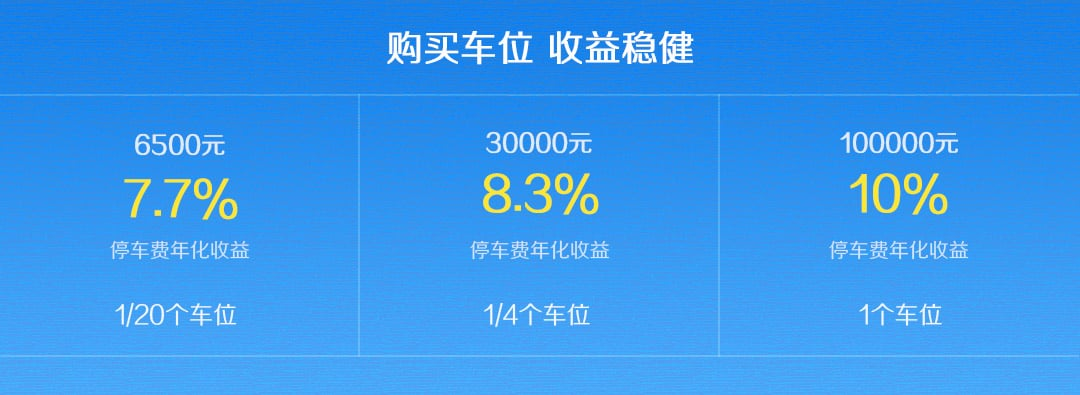
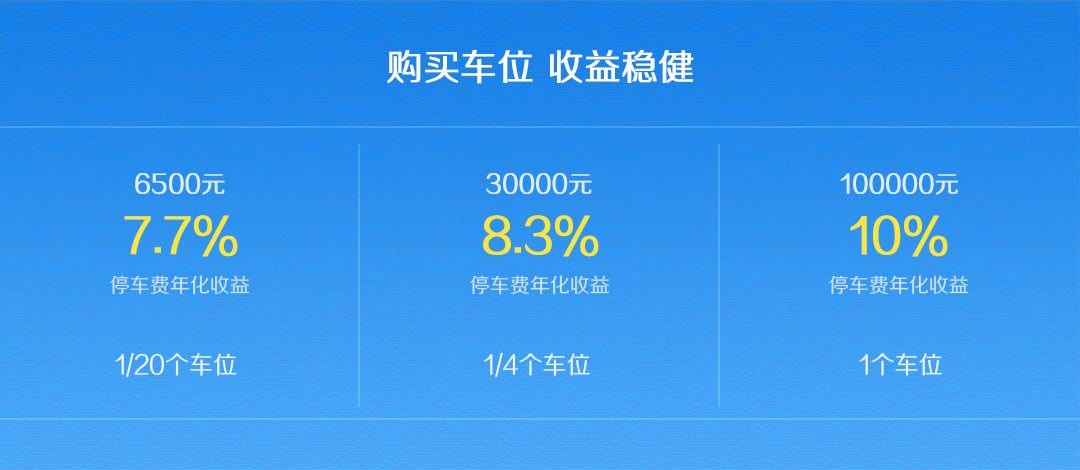
update images

diff --git a/src/components/product/ways.jsx b/src/components/product/ways.jsx
@@ -61,12 +61,15 @@ const PaymentDesc = styled.span`
 `;
 
 const Time = styled.p`
-  margin: 0.05rem 0 0.2rem;
+  margin: 0.05rem 0 0;
   font-size: 0.12rem;
   line-height: 0.18rem;
   color: #4a4a4a;
   span {
     color: #9b9b9b;
+  }
+  &:last-of-type {
+    margin-bottom: 0.2rem;
   }
 `;
 
@@ -84,6 +87,9 @@ const Intro = () => (
           {product.desc}
           <Time>
             <span>开始收益时间</span> {format(addDays(new Date(), 7), 'YYYY年MM月DD')}
+          </Time>
+          <Time>
+            <span>停车费年化收益</span> {product.ratio}
           </Time>
           <Link to={`/orders/new?paymentId=${product.id}`}>
             <Button>确认购买</Button>

diff --git a/src/components/product/slides.jsx b/src/components/product/slides.jsx
@@ -8,7 +8,7 @@ import imgSlide2 from './slide-profit.jpg';
 const Container = styled.div`
   img {
     width: 100%;
-    // height: 2.2rem;
+    height: 1.63rem;
   }
 `;
 
@@ -16,8 +16,8 @@ export default function Slides() {
   return (
     <Container>
       <Slider>
-        <img src={imgSlide1} alt="carport" />
         <img src={imgSlide2} alt="carport" />
+        <img src={imgSlide1} alt="carport" />
       </Slider>
     </Container>
   );

diff --git a/src/components/product/desc.jsx b/src/components/product/desc.jsx
@@ -3,7 +3,7 @@ import styled from 'styled-components';
 
 import IncomeCal from './incomeCal';
 
-import imgProfits from './profits.jpg';
+import imgProfits from './profits.png';
 import imgBJ1 from './bj1.jpg';
 import imgXM1 from './xm1.jpg';
 import imgSH1 from './sh1.jpg';
